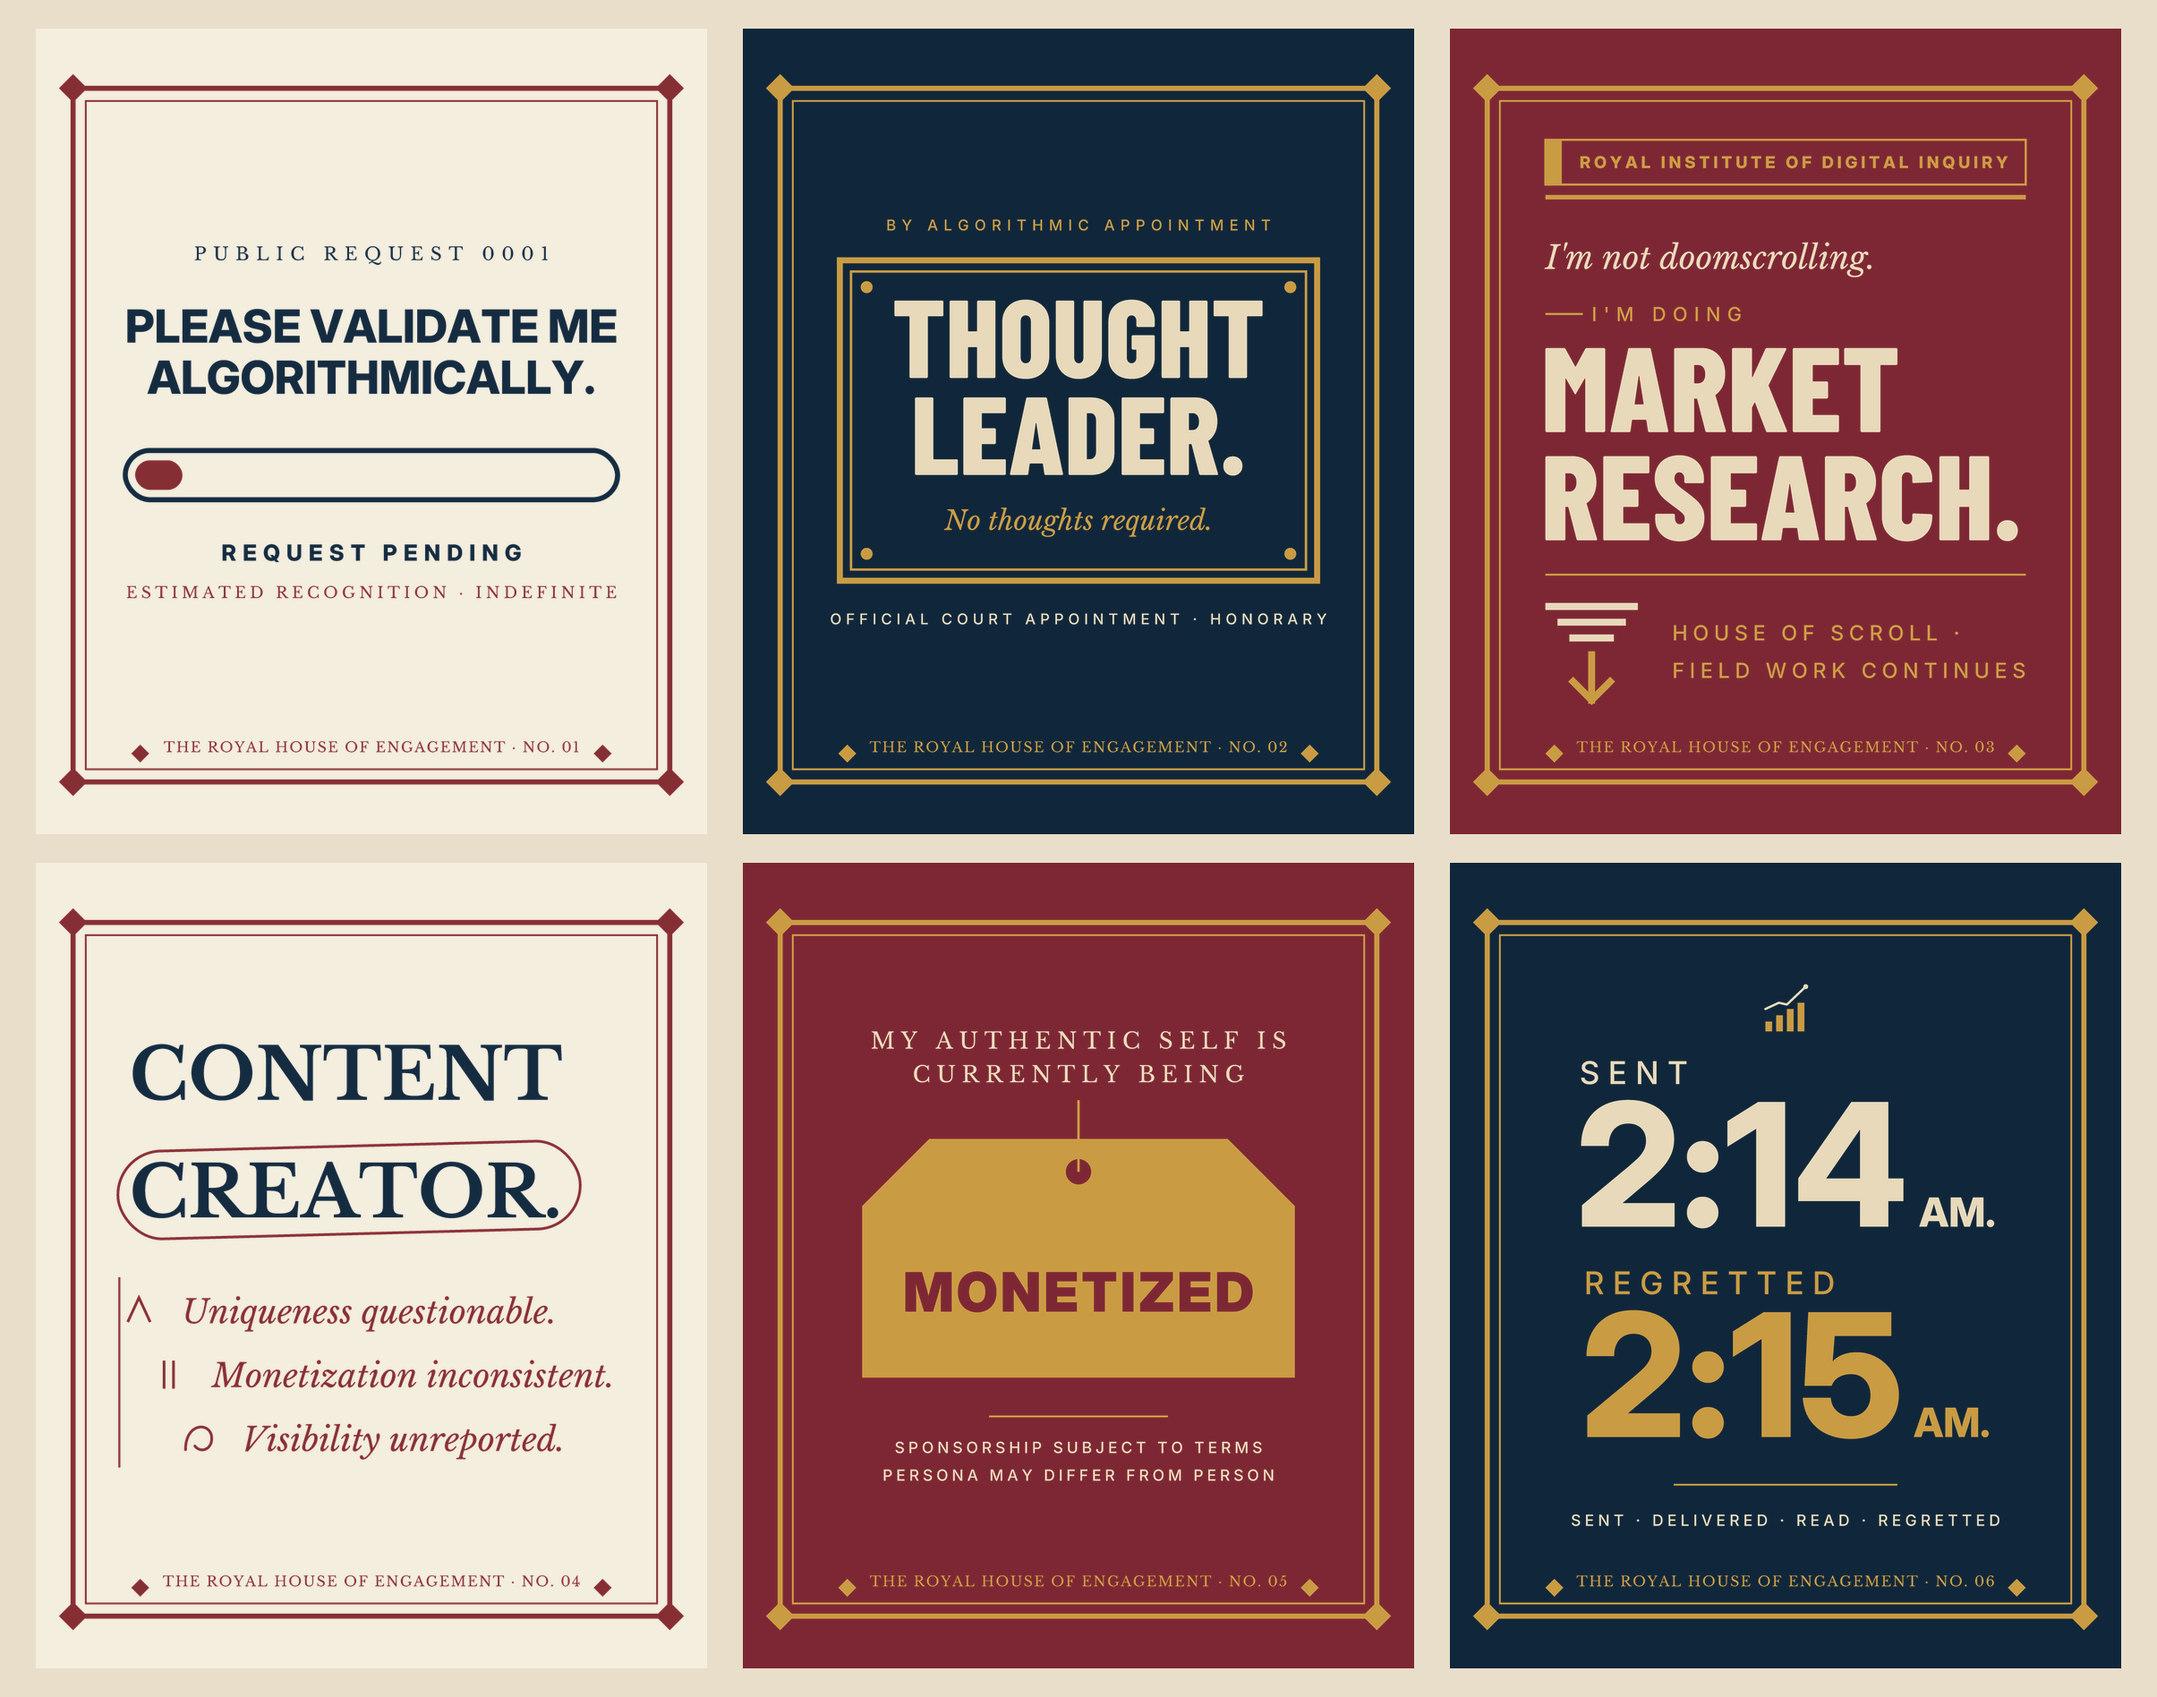
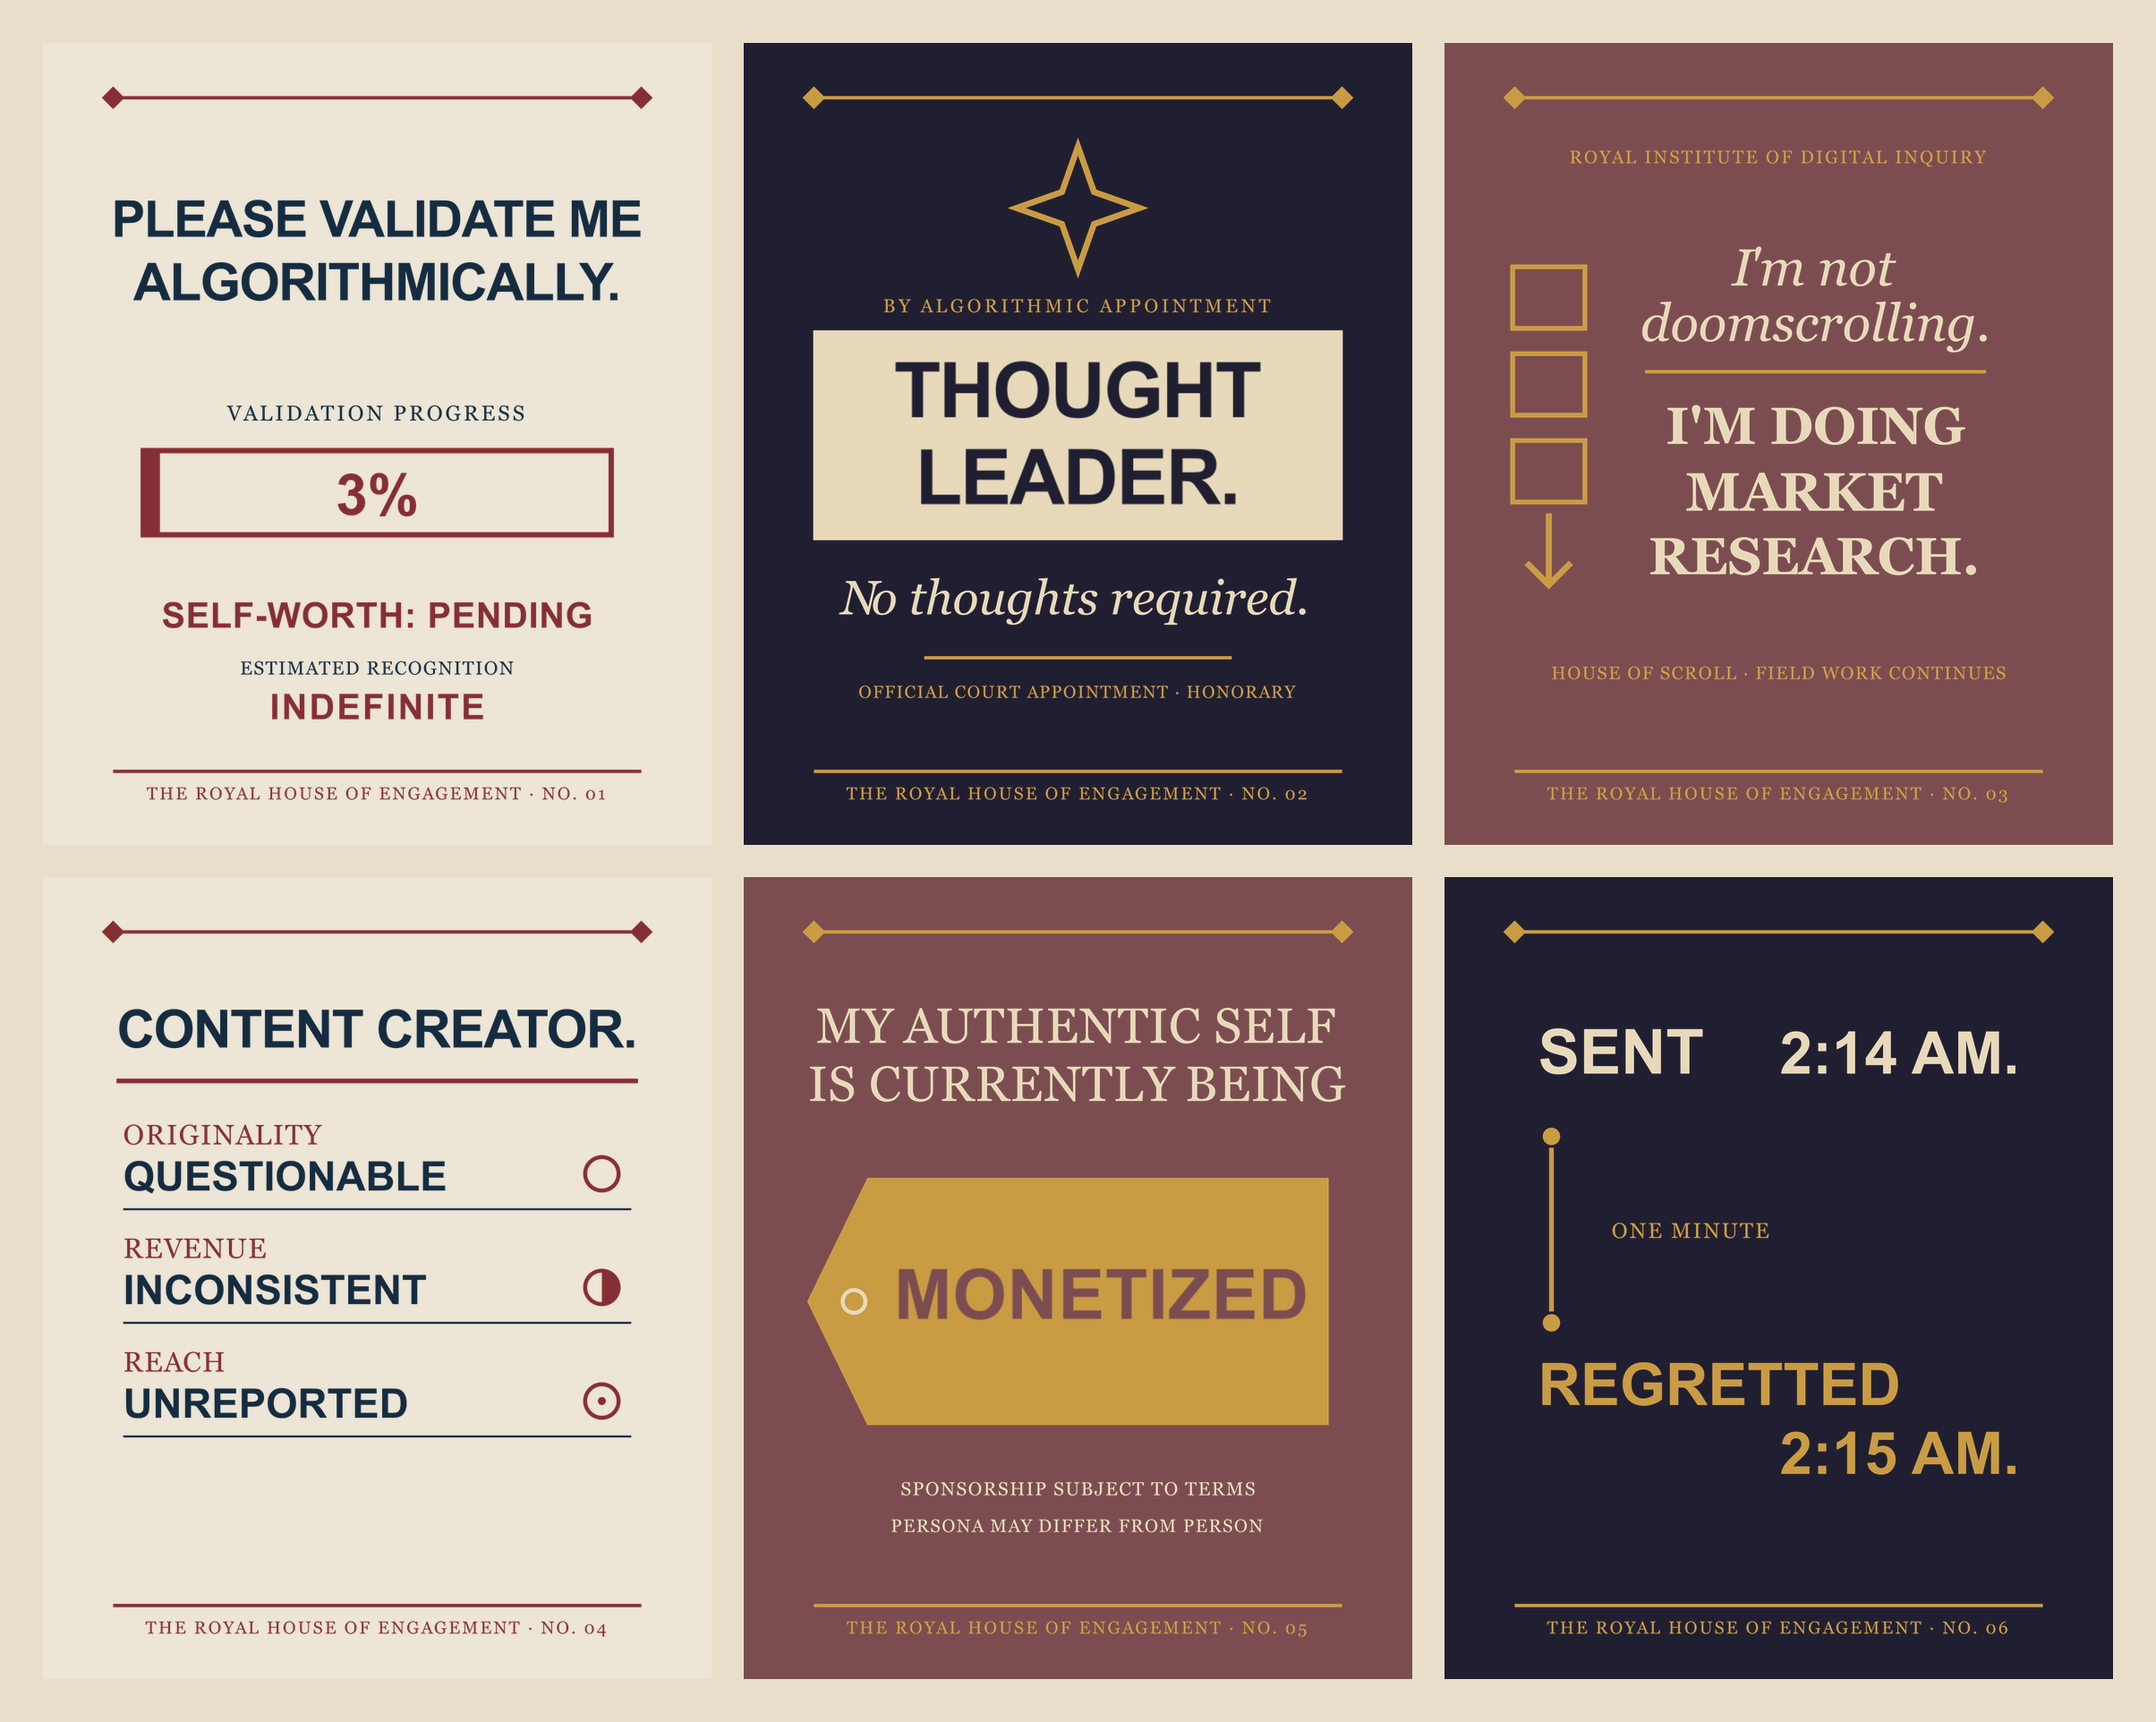
Finish the redesign on the site: six-up image, concept 21 wording, catalog
- Rebuild front-art-holiday-six.png from the six approved display files on
  their real garment colours; the shop still showed the previous art.
- Concept 21 in concept-catalog.md now carries the approved No. 04 wording, so
  the generator matches it to the shirt again (promoted count 6, products 104).
- Regenerate the ecosystem catalog from its sources instead of hand-edited
  output, so build-ecosystem-catalog.mjs --check passes. Label print-candidate
  artwork as 'Outlined print candidate'.

diff --git a/docs/product/ECOSYSTEM_APPAREL_CATALOG.md b/docs/product/ECOSYSTEM_APPAREL_CATALOG.md
@@ -38,16 +38,16 @@ The House assignment identifies the mechanism being satirized; it does not requi
 
 ## Founding Ten
 
-These records remain authoritative over every expansion classification. Nos. F01–F06 use the November 23 outlined print candidates; physical samples remain open. The held-back artwork plates are concept references until reconstructed or approved at provider resolution.
+These records remain authoritative over every expansion classification. Existing SVGs are editable prototypes; generated artwork plates are concept references until reconstructed or approved at provider resolution.
 
 | ID | Product | Collection | Form | House | Production record |
 |---|---|---|---|---|---|
-| F01 | Please validate me algorithmically. | Public Notices | PN | None required | Outlined candidate: production/print-files/launch-six-redesign-candidate-v1/01-approval-pending.svg |
-| F02 | Thought leader. No thoughts required. | Court & Orders | CO | House of Influence | Outlined candidate: production/print-files/launch-six-redesign-candidate-v1/02-honorary-appointment.svg |
-| F03 | I’m not doomscrolling. I’m doing market research. | Court & Orders | CO | House of Scroll | Outlined candidate: production/print-files/launch-six-redesign-candidate-v1/03-inquiry-feed.svg |
-| F04 | Content creator. Originality questionable. Revenue inconsistent. Reach unreported. | Public Notices | PN | None required | Outlined candidate: production/print-files/launch-six-redesign-candidate-v1/04-creator-audit.svg |
-| F05 | My authentic self is currently being monetized. | Public Notices | PN | None required | Outlined candidate: production/print-files/launch-six-redesign-candidate-v1/05-authentic-self-tag.svg |
-| F06 | Sent 2:14 AM. Regretted 2:15 AM. | Public Notices | PN | None required | Outlined candidate: production/print-files/launch-six-redesign-candidate-v1/06-one-minute-record.svg |
+| F01 | Please validate me algorithmically. | Public Notices | PN | None required | Outlined print candidate: production/print-files/launch-six-redesign-candidate-v1/01-approval-pending.svg |
+| F02 | Thought leader. No thoughts required. | Court & Orders | CO | House of Influence | Outlined print candidate: production/print-files/launch-six-redesign-candidate-v1/02-honorary-appointment.svg |
+| F03 | I’m not doomscrolling. I’m doing market research. | Court & Orders | CO | House of Scroll | Outlined print candidate: production/print-files/launch-six-redesign-candidate-v1/03-inquiry-feed.svg |
+| F04 | Content creator. Originality questionable. Revenue inconsistent. Reach unreported. | Public Notices | PN | None required | Outlined print candidate: production/print-files/launch-six-redesign-candidate-v1/04-creator-audit.svg |
+| F05 | My authentic self is currently being monetized. | Public Notices | PN | None required | Outlined print candidate: production/print-files/launch-six-redesign-candidate-v1/05-authentic-self-tag.svg |
+| F06 | Sent 2:14 AM. Regretted 2:15 AM. | Public Notices | PN | None required | Outlined print candidate: production/print-files/launch-six-redesign-candidate-v1/06-one-minute-record.svg |
 | F07 | Much Published, Little Said | Court & Orders | CO | The Royal House of Engagement | Artwork plate (not print-ready): design/mockups/royal-house/A07-much-published-little-said.png |
 | F08 | Order of the Blue Check | Court & Orders | CO | House of Influence | Artwork plate (not print-ready): design/mockups/royal-house/A08-order-blue-check.png |
 | F09 | The End of the World Has Been Postponed | Royal Commemorations | RC | House of Buffer | Artwork plate (not print-ready): design/mockups/royal-house/A09-y2k-postponed.png |
@@ -89,7 +89,7 @@ These twelve concepts deliberately test four Public Notices, four House Warrants
 
 | ID | Exact front declaration | Form | House | Printable visual brief | Catalog role | Stage |
 |---|---|---|---|---|---|---|
-| L001 | Thought leader. No thoughts required. | CO | House of Influence | Severe condensed type; tiny fake credential line below | Promoted to Founding 02 | editable-prototype |
+| L001 | Thought leader. No thoughts required. | CO | House of Influence | Severe condensed type; tiny fake credential line below | Promoted to Founding 02 | print-candidate |
 | L002 | Building my personal brand instead of a personality. | PN | House of Influence | Corporate sans serif inside a fake brand-guidelines grid | Expansion library | Expansion candidate |
 | L003 | This meeting could have been a LinkedIn post. | PN | House of Influence | Calendar-invite layout with the duration crossed out | Expansion library | Development |
 | L004 | I leveraged a walk into a journey. | PN | House of Influence | Overwritten corporate announcement treatment | Expansion library | Expansion candidate |
@@ -104,7 +104,7 @@ These twelve concepts deliberately test four Public Notices, four House Warrants
 
 | ID | Exact front declaration | Form | House | Printable visual brief | Catalog role | Stage |
 |---|---|---|---|---|---|---|
-| L011 | Please validate me algorithmically. | PN | None required | Centered institutional type with a tiny verification spinner | Promoted to Founding 01 | editable-prototype |
+| L011 | Please validate me algorithmically. | PN | None required | Centered institutional type with a tiny verification spinner | Promoted to Founding 01 | print-candidate |
 | L012 | I optimized this shirt for engagement. | PN | None required | A/B-test labels and fake conversion metrics | Expansion library | Expansion candidate |
 | L013 | The algorithm and I are taking some space. | PN | House of Buffer | Relationship-status form with “It’s complicated” selected | Expansion library | Expansion candidate |
 | L014 | Organic reach. Synthetic personality. | PN | House of Signal | Two-column nutrition-label composition | Expansion library | Expansion candidate |
@@ -119,8 +119,8 @@ These twelve concepts deliberately test four Public Notices, four House Warrants
 
 | ID | Exact front declaration | Form | House | Printable visual brief | Catalog role | Stage |
 |---|---|---|---|---|---|---|
-| L021 | Content creator. Uniqueness questionable. Monetization inconsistent. Visibility unreported. | PN | None required | Editorial proof returned with comments: CREATOR. circled, the three findings as margin notes | Promoted to Founding 04 | editable-prototype |
-| L022 | My authentic self is currently being monetized. | PN | None required | Price tag attached to a fingerprint-like abstract mark | Promoted to Founding 05 | editable-prototype |
+| L021 | Content creator. Originality questionable. Revenue inconsistent. Reach unreported. | PN | None required | Editorial proof returned with comments: CREATOR. circled, the three findings as margin notes | Promoted to Founding 04 | print-candidate |
+| L022 | My authentic self is currently being monetized. | PN | None required | Price tag attached to a fingerprint-like abstract mark | Promoted to Founding 05 | print-candidate |
 | L023 | I went viral and all I got was this dopamine imbalance. | PN | House of Influence | Souvenir-shirt arc with a tiny unstable waveform | Expansion library | Expansion candidate |
 | L024 | Follow me for more reasons to unfollow me. | HW | House of Scroll | Repeating follow/unfollow buttons in a loop | Expansion library | Expansion candidate |
 | L025 | Everything is content if you disrespect the moment enough. | PN | House of Influence | Documentary timecode over a simple family-photo frame | Expansion library | Expansion candidate |
@@ -134,7 +134,7 @@ These twelve concepts deliberately test four Public Notices, four House Warrants
 
 | ID | Exact front declaration | Form | House | Printable visual brief | Catalog role | Stage |
 |---|---|---|---|---|---|---|
-| L031 | I’m not doomscrolling. I’m doing market research. | CO | House of Scroll | Research-department seal around a thumb-swipe icon | Promoted to Founding 03 | editable-prototype |
+| L031 | I’m not doomscrolling. I’m doing market research. | CO | House of Scroll | Research-department seal around a thumb-swipe icon | Promoted to Founding 03 | print-candidate |
 | L032 | Offline is currently unavailable. | PN | House of Buffer | System-status message and empty signal bars | Expansion library | Expansion candidate |
 | L033 | I came. I saw. I refreshed. | HW | House of Scroll | Classical inscription treatment with refresh icon | Expansion library | Expansion candidate |
 | L034 | Screen time is still time. | PN | House of Scroll | Minimal clock whose hands form a phone outline | Expansion library | Development |

diff --git a/docs/product/concept-catalog.md b/docs/product/concept-catalog.md
@@ -42,7 +42,7 @@ Status: creative development draft. The Launch / Develop / Hold column below is 
 
 | # | Saying | Visual direction | Status |
 |---|---|---|---|
-| 21 | Content creator. Uniqueness questionable. Monetization inconsistent. Visibility unreported. | Editorial proof returned with comments: CREATOR. circled, the three findings as margin notes | Launch |
+| 21 | Content creator. Originality questionable. Revenue inconsistent. Reach unreported. | Editorial proof returned with comments: CREATOR. circled, the three findings as margin notes | Launch |
 | 22 | My authentic self is currently being monetized. | Price tag attached to a fingerprint-like abstract mark | Launch |
 | 23 | I went viral and all I got was this dopamine imbalance. | Souvenir-shirt arc with a tiny unstable waveform | Launch |
 | 24 | Follow me for more reasons to unfollow me. | Repeating follow/unfollow buttons in a loop | Launch |
